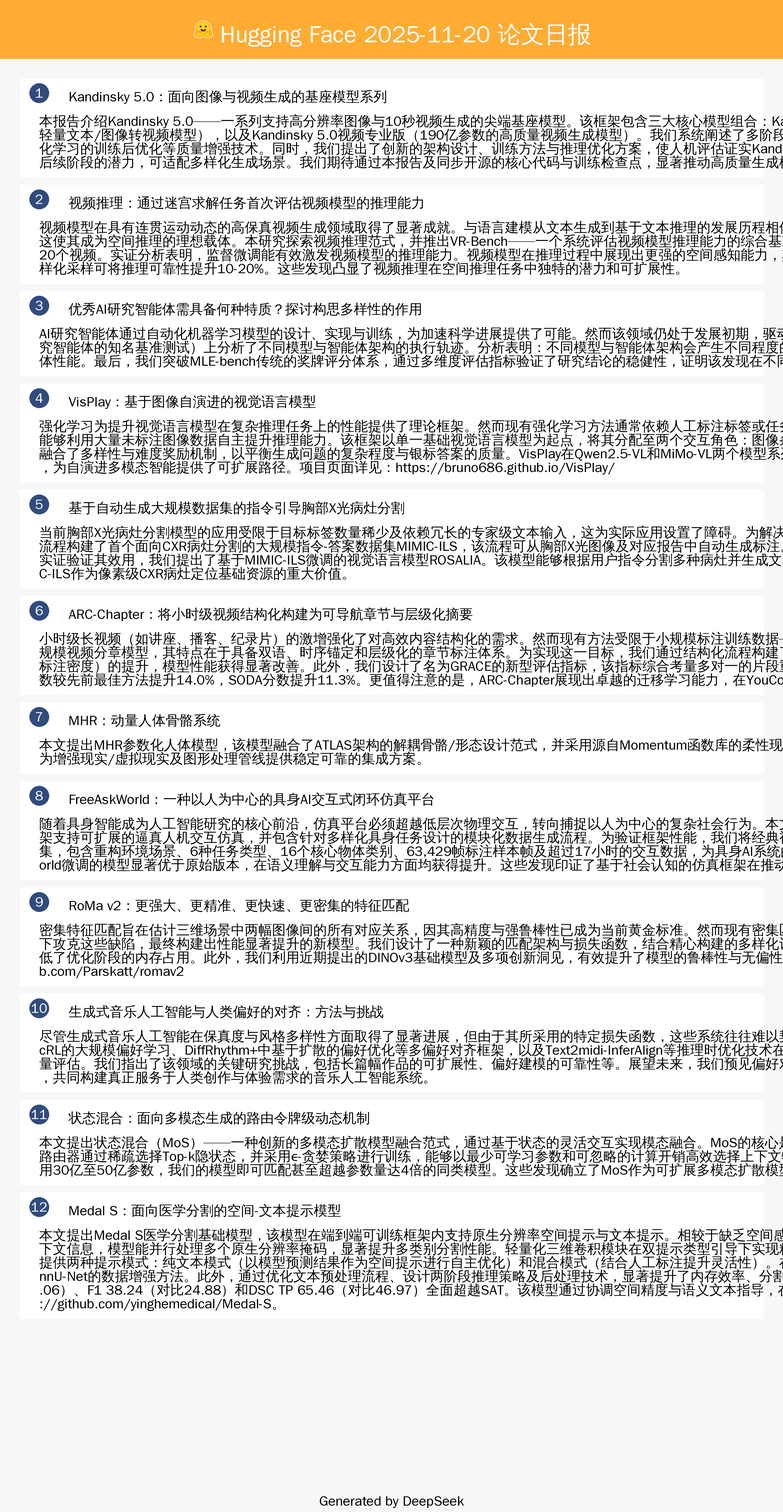
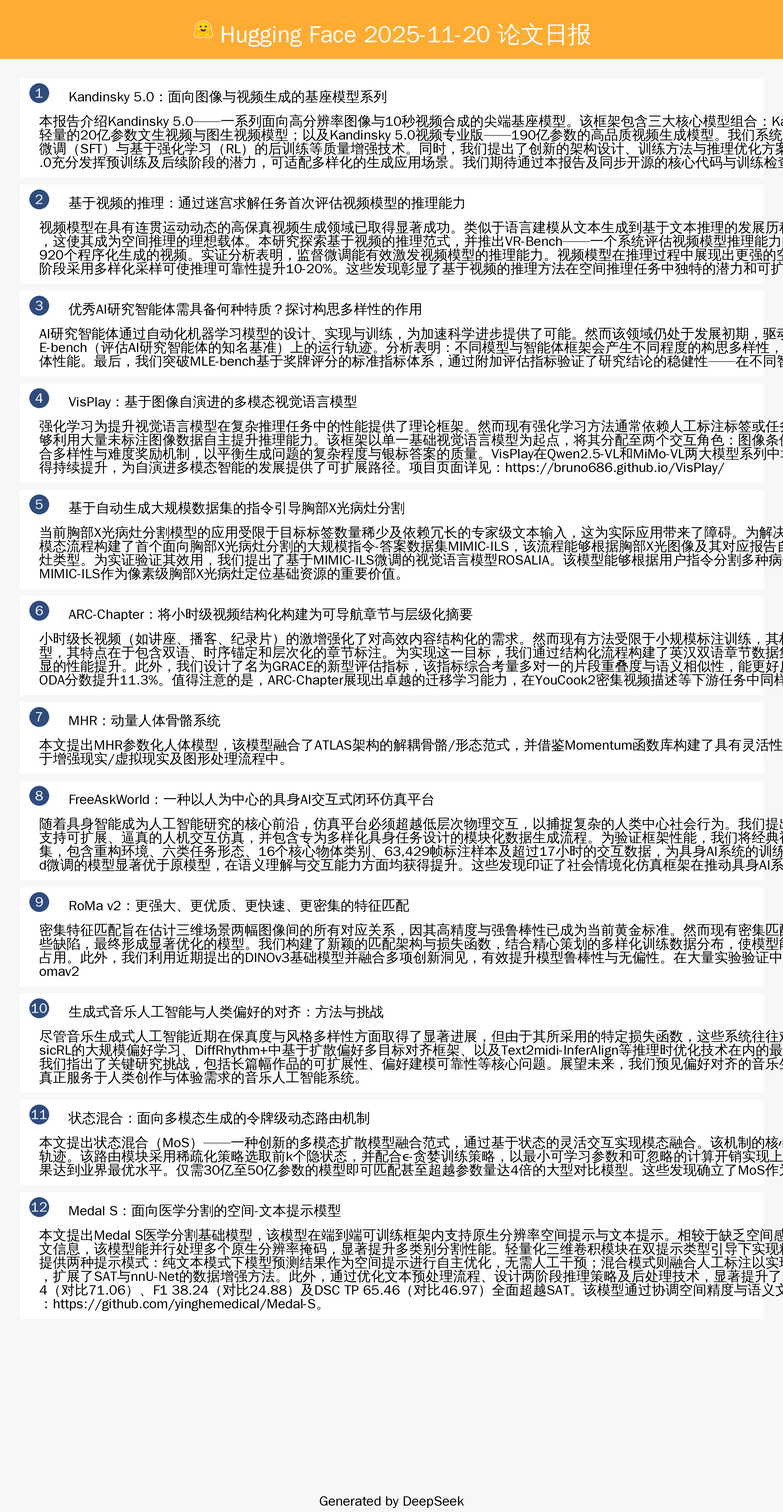
Update daily paper report for 2025-11-20

diff --git a/newsletters/2025-11-20_daily_paper.html b/newsletters/2025-11-20_daily_paper.html
@@ -154,73 +154,73 @@
 <h3>1. Kandinsky 5.0：面向图像与视频生成的基座模型系列</h3>
 <p><strong>原文标题：</strong> Kandinsky 5.0: A Family of Foundation Models for Image and Video Generation</p>
 <p><strong>摘要：</strong>
-本报告介绍Kandinsky 5.0——一系列支持高分辨率图像与10秒视频生成的尖端基座模型。该框架包含三大核心模型组合：Kandinsky 5.0图像轻量版（60亿参数图像生成模型）、Kandinsky 5.0视频轻量版（20亿参数的快速轻量文本/图像转视频模型），以及Kandinsky 5.0视频专业版（190亿参数的高质量视频生成模型）。我们系统阐述了多阶段训练流程中的数据治理生命周期（涵盖采集、处理、筛选与聚类），该流程包含大规模预训练阶段，并融合了自监督微调与基于强化学习的训练后优化等质量增强技术。同时，我们提出了创新的架构设计、训练方法与推理优化方案，使人机评估证实Kandinsky 5.0能在各类任务中实现高速生成与顶尖性能。作为开源可用的规模化生成框架，Kandinsky 5.0充分发挥预训练及后续阶段的潜力，可适配多样化生成场景。我们期待通过本报告及同步开源的核心代码与训练检查点，显著推动高质量生成模型在科研领域的发展与普及。</p>
+本报告介绍Kandinsky 5.0——一系列面向高分辨率图像与10秒视频合成的尖端基座模型。该框架包含三大核心模型组合：Kandinsky 5.0图像轻量版——包含60亿参数的图像生成模型系列；Kandinsky 5.0视频轻量版——快速轻量的20亿参数文生视频与图生视频模型；以及Kandinsky 5.0视频专业版——190亿参数的高品质视频生成模型。我们系统阐述了多阶段训练流程中的数据治理生命周期（涵盖收集、处理、筛选与聚类），该流程包含大规模预训练阶段，并融合了自监督微调（SFT）与基于强化学习（RL）的后训练等质量增强技术。同时，我们提出了创新的架构设计、训练方法与推理优化方案，使Kandinsky 5.0在人类评估中展现出高速生成能力与多任务的顶尖性能。作为大规模开源生成框架，Kandinsky 5.0充分发挥预训练及后续阶段的潜力，可适配多样化的生成应用场景。我们期待通过本报告及同步开源的核心代码与训练检查点，显著推动高质量生成模型在科研领域的发展与普及。</p>
 <p><strong>论文链接：</strong> <a href="https://huggingface.co/papers/2511.14993">HuggingFace</a> | <a href="https://arxiv.org/abs/2511.14993">arXiv</a></p>
 <hr />
-<h3>2. 视频推理：通过迷宫求解任务首次评估视频模型的推理能力</h3>
+<h3>2. 基于视频的推理：通过迷宫求解任务首次评估视频模型的推理能力</h3>
 <p><strong>原文标题：</strong> Reasoning via Video: The First Evaluation of Video Models' Reasoning Abilities through Maze-Solving Tasks</p>
 <p><strong>摘要：</strong>
-视频模型在具有连贯运动动态的高保真视频生成领域取得了显著成就。与语言建模从文本生成到基于文本推理的发展历程相似，视频模型的发展促使我们思考：视频模型能否通过视频生成进行推理？与离散文本语料相比，视频将推理锚定在明确的空间布局和时间连续性中，这使其成为空间推理的理想载体。本研究探索视频推理范式，并推出VR-Bench——一个系统评估视频模型推理能力的综合基准。该基准以迷宫求解任务为基础，此类任务本质上需要空间规划与多步推理能力，包含5种迷宫类型和多样视觉风格下程序化生成的7,920个视频。实证分析表明，监督微调能有效激发视频模型的推理能力。视频模型在推理过程中展现出更强的空间感知能力，其表现超越主流视觉语言模型，并在多样化场景、任务及复杂度层级中均具有良好的泛化性能。我们进一步发现测试时扩展效应，即推理过程中的多样化采样可将推理可靠性提升10-20%。这些发现凸显了视频推理在空间推理任务中独特的潜力和可扩展性。</p>
+视频模型在具有连贯运动动态的高保真视频生成领域已取得显著成功。类似于语言建模从文本生成到基于文本推理的发展历程，视频模型的进步促使我们思考：视频模型能否通过视频生成进行推理？与离散的文本语料相比，视频将推理锚定在明确的空间布局和时间连续性中，这使其成为空间推理的理想载体。本研究探索基于视频的推理范式，并推出VR-Bench——一个系统评估视频模型推理能力的综合基准。该基准以迷宫求解任务为基础，此类任务本质要求空间规划与多步推理能力，涵盖5种迷宫类型和多样化视觉风格，共包含7,920个程序化生成的视频。实证分析表明，监督微调能有效激发视频模型的推理能力。视频模型在推理过程中展现出更强的空间感知能力，其表现超越主流视觉语言模型，并在多样化场景、任务及复杂度层级中均具有良好的泛化性能。我们还发现测试时规模效应——推理阶段采用多样化采样可使推理可靠性提升10-20%。这些发现彰显了基于视频的推理方法在空间推理任务中独特的潜力和可扩展性。</p>
 <p><strong>论文链接：</strong> <a href="https://huggingface.co/papers/2511.15065">HuggingFace</a> | <a href="https://arxiv.org/abs/2511.15065">arXiv</a></p>
 <hr />
 <h3>3. 优秀AI研究智能体需具备何种特质？探讨构思多样性的作用</h3>
 <p><strong>原文标题：</strong> What Does It Take to Be a Good AI Research Agent? Studying the Role of Ideation Diversity</p>
 <p><strong>摘要：</strong>
-AI研究智能体通过自动化机器学习模型的设计、实现与训练，为加速科学进展提供了可能。然而该领域仍处于发展初期，驱动智能体轨迹成败的关键因素尚未被完全理解。本研究探讨了构思多样性对智能体表现的影响机制。首先，我们在MLE-bench（评估AI研究智能体的知名基准测试）上分析了不同模型与智能体架构的执行轨迹。分析表明：不同模型与智能体架构会产生不同程度的构思多样性，且表现更优的智能体往往展现出更高的构思多样性。进而通过控制构思多样性程度的实验，我们证实提高构思多样性能够显著增强智能体性能。最后，我们突破MLE-bench传统的奖牌评分体系，通过多维度评估指标验证了研究结论的稳健性，证明该发现在不同智能体性能度量标准下均成立。</p>
+AI研究智能体通过自动化机器学习模型的设计、实现与训练，为加速科学进步提供了可能。然而该领域仍处于发展初期，驱动智能体轨迹成败的关键因素尚未被完全理解。本文研究了构思多样性在智能体性能中发挥的作用。首先，我们分析了不同模型与智能体框架在MLE-bench（评估AI研究智能体的知名基准）上的运行轨迹。分析表明：不同模型与智能体框架会产生不同程度的构思多样性，且性能越优异的智能体往往展现出更高的构思多样性。进而，我们通过控制实验调节构思多样性程度，证明提高构思多样性可显著增强智能体性能。最后，我们突破MLE-bench基于奖牌评分的标准指标体系，通过附加评估指标验证了研究结论的稳健性——在不同智能体性能度量标准下，我们的发现依然成立。</p>
 <p><strong>论文链接：</strong> <a href="https://huggingface.co/papers/2511.15593">HuggingFace</a> | <a href="https://arxiv.org/abs/2511.15593">arXiv</a></p>
 <hr />
-<h3>4. VisPlay：基于图像自演进的视觉语言模型</h3>
+<h3>4. VisPlay：基于图像自演进的多模态视觉语言模型</h3>
 <p><strong>原文标题：</strong> VisPlay: Self-Evolving Vision-Language Models from Images</p>
 <p><strong>摘要：</strong>
-强化学习为提升视觉语言模型在复杂推理任务上的性能提供了理论框架。然而现有强化学习方法通常依赖人工标注标签或任务特定启发式规则来定义可验证奖励，这两种方式均成本高昂且难以扩展。我们提出VisPlay——一种自演进的强化学习框架，使视觉语言模型能够利用大量未标注图像数据自主提升推理能力。该框架以单一基础视觉语言模型为起点，将其分配至两个交互角色：图像条件提问器负责构建具有挑战性但可回答的视觉问题，多模态推理器则生成银标答案。通过群体相对策略优化算法对这两个角色进行联合训练，该算法融合了多样性与难度奖励机制，以平衡生成问题的复杂程度与银标答案的质量。VisPlay在Qwen2.5-VL和MiMo-VL两个模型系列中均展现出卓越的扩展效能，在MM-Vet和MMMU等八项基准测试中持续提升视觉推理、组合泛化及幻觉抑制能力，为自演进多模态智能提供了可扩展路径。项目页面详见：https://bruno686.github.io/VisPlay/</p>
+强化学习为提升视觉语言模型在复杂推理任务中的性能提供了理论框架。然而现有强化学习方法通常依赖人工标注标签或任务特定启发式规则来定义可验证奖励，这两种方式均成本高昂且难以扩展。我们提出VisPlay——一种自演进强化学习框架，使视觉语言模型能够利用大量未标注图像数据自主提升推理能力。该框架以单一基础视觉语言模型为起点，将其分配至两个交互角色：图像条件提问器负责构建具有挑战性但可回答的视觉问题，多模态推理器则生成银标答案。通过群体相对策略优化算法对这两个角色进行联合训练，该算法融合多样性与难度奖励机制，以平衡生成问题的复杂程度与银标答案的质量。VisPlay在Qwen2.5-VL和MiMo-VL两大模型系列中均展现出良好的扩展性。在MM-Vet和MMMU等八个基准测试中，该框架在视觉推理、组合泛化及幻觉抑制方面均取得持续提升，为自演进多模态智能的发展提供了可扩展路径。项目页面详见：https://bruno686.github.io/VisPlay/</p>
 <p><strong>论文链接：</strong> <a href="https://huggingface.co/papers/2511.15661">HuggingFace</a> | <a href="https://arxiv.org/abs/2511.15661">arXiv</a></p>
 <hr />
 <h3>5. 基于自动生成大规模数据集的指令引导胸部X光病灶分割</h3>
 <p><strong>原文标题：</strong> Instruction-Guided Lesion Segmentation for Chest X-rays with Automatically Generated Large-Scale Dataset</p>
 <p><strong>摘要：</strong>
-当前胸部X光病灶分割模型的应用受限于目标标签数量稀少及依赖冗长的专家级文本输入，这为实际应用设置了障碍。为解决这些局限性，我们提出了一种新范式：指令引导病灶分割，该范式能够基于简洁的用户指令分割多种病灶类型。在此范式下，我们通过全自动多模态流程构建了首个面向CXR病灶分割的大规模指令-答案数据集MIMIC-ILS，该流程可从胸部X光图像及对应报告中自动生成标注。MIMIC-ILS包含源自19.2万张图像和9.1万个独立分割掩码的110万条指令-答案对，涵盖七种主要病灶类型。为实证验证其效用，我们提出了基于MIMIC-ILS微调的视觉语言模型ROSALIA。该模型能够根据用户指令分割多种病灶并生成文本解释。在我们新提出的任务中，该模型实现了优异的病灶分割与文本描述精度，充分证明了我们流程的有效性，也彰显了MIMIC-ILS作为像素级CXR病灶定位基础资源的重大价值。</p>
+当前胸部X光病灶分割模型的应用受限于目标标签数量稀少及依赖冗长的专家级文本输入，这为实际应用带来了障碍。为解决这些局限性，我们提出了一种新范式：指令引导病灶分割，该范式旨在基于简单易用的用户指令分割多种病灶类型。在此范式下，我们通过全自动多模态流程构建了首个面向胸部X光病灶分割的大规模指令-答案数据集MIMIC-ILS，该流程能够根据胸部X光图像及其对应报告自动生成标注。MIMIC-ILS包含源自19.2万张图像和9.1万个独立分割掩码的110万条指令-答案对，涵盖七种主要病灶类型。为实证验证其效用，我们提出了基于MIMIC-ILS微调的视觉语言模型ROSALIA。该模型能够根据用户指令分割多种病灶并提供文本解释。在我们新提出的任务中，该模型实现了较高的分割精度与文本描述准确性，充分证明了我们流程的有效性，以及MIMIC-ILS作为像素级胸部X光病灶定位基础资源的重要价值。</p>
 <p><strong>论文链接：</strong> <a href="https://huggingface.co/papers/2511.15186">HuggingFace</a> | <a href="https://arxiv.org/abs/2511.15186">arXiv</a></p>
 <hr />
 <h3>6. ARC-Chapter：将小时级视频结构化构建为可导航章节与层级化摘要</h3>
 <p><strong>原文标题：</strong> ARC-Chapter: Structuring Hour-Long Videos into Navigable Chapters and Hierarchical Summaries</p>
 <p><strong>摘要：</strong>
-小时级长视频（如讲座、播客、纪录片）的激增强化了对高效内容结构化的需求。然而现有方法受限于小规模标注训练数据——其标注通常简短粗糙，制约了模型对长视频中细微内容转换的泛化能力。我们提出ARC-Chapter，首个基于百万级长视频章节训练的大规模视频分章模型，其特点在于具备双语、时序锚定和层级化的章节标注体系。为实现这一目标，我们通过结构化流程构建了英汉双语章节数据集，将语音转录文本、场景文字和视觉描述统一整合为从简短标题到详细摘要的多层级标注。实验证明，随着数据规模（数据量和标注密度）的提升，模型性能获得显著改善。此外，我们设计了名为GRACE的新型评估指标，该指标综合考量多对一的片段重叠度与语义相似性，能更准确反映实际分章任务的灵活性要求。大量实验表明，ARC-Chapter以显著优势创下最新性能记录，F1分数较先前最佳方法提升14.0%，SODA分数提升11.3%。更值得注意的是，ARC-Chapter展现出卓越的迁移学习能力，在YouCook2密集视频描述等下游任务中同样提升了现有最佳性能。</p>
+小时级长视频（如讲座、播客、纪录片）的激增强化了对高效内容结构化的需求。然而现有方法受限于小规模标注训练，其标注通常简短粗糙，难以泛化至长视频中的细微内容转换。我们提出ARC-Chapter——首个基于百万级长视频章节训练的大规模视频分章模型，其特点在于包含双语、时序锚定和层次化的章节标注。为实现这一目标，我们通过结构化流程构建了英汉双语章节数据集，将语音转录文本、场景文字和视觉描述统一整合为从简短标题到详细摘要的多层级标注。我们通过数据规模（数据量与标注强度）的扩展证明了明显的性能提升。此外，我们设计了名为GRACE的新型评估指标，该指标综合考量多对一的片段重叠度与语义相似性，能更好反映实际分章任务的灵活性。大量实验表明，ARC-Chapter以显著优势创下新性能纪录，F1分数较先前最佳方法提升14.0%，SODA分数提升11.3%。值得注意的是，ARC-Chapter展现出卓越的迁移学习能力，在YouCook2密集视频描述等下游任务中同样提升了现有最佳性能。</p>
 <p><strong>论文链接：</strong> <a href="https://huggingface.co/papers/2511.14349">HuggingFace</a> | <a href="https://arxiv.org/abs/2511.14349">arXiv</a></p>
 <hr />
 <h3>7. MHR：动量人体骨骼系统</h3>
 <p><strong>原文标题：</strong> MHR: Momentum Human Rig</p>
 <p><strong>摘要：</strong>
-本文提出MHR参数化人体模型，该模型融合了ATLAS架构的解耦骨骼/形态设计范式，并采用源自Momentum函数库的柔性现代骨骼绑定与姿态校正系统。我们的模型能够生成具有表现力且符合解剖学原理的人体动画，支持非线性姿态校正功能，其设计目标是为增强现实/虚拟现实及图形处理管线提供稳定可靠的集成方案。</p>
+本文提出MHR参数化人体模型，该模型融合了ATLAS架构的解耦骨骼/形态范式，并借鉴Momentum函数库构建了具有灵活性的现代骨骼绑定与姿态校正系统。该模型能够生成表现力丰富且符合解剖学原理的人体动画，支持非线性姿态校正，其设计可稳健集成于增强现实/虚拟现实及图形处理流程中。</p>
 <p><strong>论文链接：</strong> <a href="https://huggingface.co/papers/2511.15586">HuggingFace</a> | <a href="https://arxiv.org/abs/2511.15586">arXiv</a></p>
 <hr />
 <h3>8. FreeAskWorld：一种以人为中心的具身AI交互式闭环仿真平台</h3>
 <p><strong>原文标题：</strong> FreeAskWorld: An Interactive and Closed-Loop Simulator for Human-Centric Embodied AI</p>
 <p><strong>摘要：</strong>
-随着具身智能成为人工智能研究的核心前沿，仿真平台必须超越低层次物理交互，转向捕捉以人为中心的复杂社会行为。本文提出FreeAskWorld——一个融合大语言模型进行高层行为规划与语义基础交互的仿真框架，其设计基于意图理论与社会认知理论。该框架支持可扩展的逼真人机交互仿真，并包含针对多样化具身任务设计的模块化数据生成流程。为验证框架性能，我们将经典视觉语言导航任务扩展为富含交互的路径问询场景，使智能体能够主动寻求并解析导航指引。我们公开推出FreeAskWorld大规模基准数据集，包含重构环境场景、6种任务类型、16个核心物体类别、63,429帧标注样本帧及超过17小时的交互数据，为具身AI系统的训练与评估提供支持。通过对视觉语言导航模型与人类参与者进行开环与闭环设置的基准测试，实验结果表明：基于FreeAskWorld微调的模型显著优于原始版本，在语义理解与交互能力方面均获得提升。这些发现印证了基于社会认知的仿真框架在推动具身AI系统实现高级规划与自然人机交互方面的有效性。特别需要指出的是，本研究证实交互本身可作为一种附加的信息模态。</p>
+随着具身智能成为人工智能研究的核心前沿，仿真平台必须超越低层次物理交互，以捕捉复杂的人类中心社会行为。我们提出FreeAskWorld——一个融合大语言模型进行高层次行为规划与语义接地交互的仿真框架，其设计基于意图理论与社会认知理论。该框架支持可扩展、逼真的人机交互仿真，并包含专为多样化具身任务设计的模块化数据生成流程。为验证框架性能，我们将经典视觉语言导航任务扩展为交互增强的方位问询场景，使智能体能够主动寻求并解析导航指引。我们公开发布FreeAskWorld大规模基准数据集，包含重构环境、六类任务形态、16个核心物体类别、63,429帧标注样本及超过17小时的交互数据，为具身AI系统的训练与评估提供支持。通过对视觉语言导航模型和人类参与者进行开环与闭环设置的基准测试，实验结果表明：基于FreeAskWorld微调的模型显著优于原模型，在语义理解与交互能力方面均获得提升。这些发现印证了社会情境化仿真框架在推动具身AI系统实现高级规划与自然人机交互方面的有效性。特别需要指出的是，本研究揭示了交互本身可作为独立的信息模态这一重要特性。</p>
 <p><strong>论文链接：</strong> <a href="https://huggingface.co/papers/2511.13524">HuggingFace</a> | <a href="https://arxiv.org/abs/2511.13524">arXiv</a></p>
 <hr />
-<h3>9. RoMa v2：更强大、更精准、更快速、更密集的特征匹配</h3>
+<h3>9. RoMa v2：更强大、更优质、更快速、更密集的特征匹配</h3>
 <p><strong>原文标题：</strong> RoMa v2: Harder Better Faster Denser Feature Matching</p>
 <p><strong>摘要：</strong>
-密集特征匹配旨在估计三维场景中两幅图像间的所有对应关系，因其高精度与强鲁棒性已成为当前黄金标准。然而现有密集匹配方法在诸多复杂现实场景中仍存在匹配失败或性能不佳的问题，且高精度模型往往速度缓慢，限制了实际应用。本文通过一系列系统性改进多管齐下攻克这些缺陷，最终构建出性能显著提升的新模型。我们设计了一种新颖的匹配架构与损失函数，结合精心构建的多样化训练数据分布，使模型能够应对多种复杂匹配任务。通过解耦的“先匹配后优化”两阶段流程，我们实现了训练加速，并借助定制CUDA内核显著降低了优化阶段的内存占用。此外，我们利用近期提出的DINOv3基础模型及多项创新洞见，有效提升了模型的鲁棒性与无偏性。在大量实验验证中，本研究所提出的新型匹配器确立了最新技术标杆，其精度显著超越现有方法。代码已发布于https://github.com/Parskatt/romav2</p>
+密集特征匹配旨在估计三维场景两幅图像间的所有对应关系，因其高精度与强鲁棒性已成为当前黄金标准。然而现有密集匹配器在诸多复杂现实场景中仍存在失效或性能不佳的问题，且高精度模型往往速度迟缓，限制了实际应用。本文通过一系列系统性改进多管齐下攻克这些缺陷，最终形成显著优化的模型。我们构建了新颖的匹配架构与损失函数，结合精心策划的多样化训练数据分布，使模型能够解决众多复杂匹配任务。通过解耦的“先匹配后优化”两阶段流程，我们进一步加速训练过程，同时借助定制CUDA内核显著降低优化阶段内存占用。此外，我们利用近期提出的DINOv3基础模型并融合多项创新洞见，有效提升模型鲁棒性与无偏性。在大量实验验证中，新型匹配器创造了最新技术标杆，其精度显著超越前代模型。代码已发布于https://github.com/Parskatt/romav2</p>
 <p><strong>论文链接：</strong> <a href="https://huggingface.co/papers/2511.15706">HuggingFace</a> | <a href="https://arxiv.org/abs/2511.15706">arXiv</a></p>
 <hr />
 <h3>10. 生成式音乐人工智能与人类偏好的对齐：方法与挑战</h3>
 <p><strong>原文标题：</strong> Aligning Generative Music AI with Human Preferences: Methods and Challenges</p>
 <p><strong>摘要：</strong>
-尽管生成式音乐人工智能在保真度与风格多样性方面取得了显著进展，但由于其所采用的特定损失函数，这些系统往往难以契合人类细腻的审美偏好。本文主张将偏好对齐技术系统化应用于音乐生成领域，以弥合计算优化与人类音乐审美之间的根本差距。基于包括MusicRL的大规模偏好学习、DiffRhythm+中基于扩散的偏好优化等多偏好对齐框架，以及Text2midi-InferAlign等推理时优化技术在内的最新突破，我们深入探讨了这些技术如何应对音乐领域特有的挑战：时序连贯性、和声一致性及主观质量评估。我们指出了该领域的关键研究挑战，包括长篇幅作品的可扩展性、偏好建模的可靠性等。展望未来，我们预见偏好对齐的音乐生成技术将在交互式作曲工具和个性化音乐服务中催生变革性应用。本研究呼吁持续开展跨学科合作，结合机器学习与音乐理论的前沿进展，共同构建真正服务于人类创作与体验需求的音乐人工智能系统。</p>
+尽管音乐生成式人工智能近期在保真度与风格多样性方面取得了显著进展，但由于其所采用的特定损失函数，这些系统往往难以契合人类细腻的审美偏好。本文主张将偏好对齐技术系统化应用于音乐生成领域，以弥合计算优化与人类音乐审美之间的根本鸿沟。基于包括MusicRL的大规模偏好学习、DiffRhythm+中基于扩散偏好多目标对齐框架、以及Text2midi-InferAlign等推理时优化技术在内的最新突破，我们深入探讨这些技术如何应对音乐特有的挑战：时序连贯性、和声一致性以及主观质量评估。我们指出了关键研究挑战，包括长篇幅作品的可扩展性、偏好建模可靠性等核心问题。展望未来，我们预见偏好对齐的音乐生成技术将在交互式作曲工具和个性化音乐服务中催生变革性应用。本研究呼吁持续开展跨学科合作，结合机器学习与音乐理论的前沿进展，共同构建真正服务于人类创作与体验需求的音乐人工智能系统。</p>
 <p><strong>论文链接：</strong> <a href="https://huggingface.co/papers/2511.15038">HuggingFace</a> | <a href="https://arxiv.org/abs/2511.15038">arXiv</a></p>
 <hr />
-<h3>11. 状态混合：面向多模态生成的路由令牌级动态机制</h3>
+<h3>11. 状态混合：面向多模态生成的令牌级动态路由机制</h3>
 <p><strong>原文标题：</strong> Mixture of States: Routing Token-Level Dynamics for Multimodal Generation</p>
 <p><strong>摘要：</strong>
-本文提出状态混合（MoS）——一种创新的多模态扩散模型融合范式，通过基于状态的灵活交互实现模态融合。MoS的核心是可学习的令牌级路由器，该路由器在去噪时间步长和输入依赖条件下建立多模态隐状态间的交互机制，精确地将令牌级特征与扩散轨迹对齐。该路由器通过稀疏选择Top-k隐状态，并采用ε-贪婪策略进行训练，能够以最少可学习参数和可忽略的计算开销高效选择上下文特征。我们通过文本到图像生成（MoS-Image）和编辑（MoS-Editing）任务验证设计，取得了最先进的性能成果。仅使用30亿至50亿参数，我们的模型即可匹配甚至超越参数量达4倍的同类模型。这些发现确立了MoS作为可扩展多模态扩散模型的灵活且计算高效的范式。</p>
+本文提出状态混合（MoS）——一种创新的多模态扩散模型融合范式，通过基于状态的灵活交互实现模态融合。该机制的核心在于可学习的令牌级路由模块，该模块能够根据去噪时间步长与输入内容，在多模态隐状态间建立动态交互关系，从而精确对齐令牌级特征与扩散轨迹。该路由模块采用稀疏化策略选取前k个隐状态，并配合ε-贪婪训练策略，以最小可学习参数和可忽略的计算开销实现上下文特征的高效选择。我们通过文本到图像生成（MoS-Image）与编辑任务（MoS-Editing）验证了该设计的有效性，相关成果达到业界最优水平。仅需30亿至50亿参数的模型即可匹配甚至超越参数量达4倍的大型对比模型。这些发现确立了MoS作为可扩展多模态扩散模型的灵活高效计算范式。</p>
 <p><strong>论文链接：</strong> <a href="https://huggingface.co/papers/2511.12207">HuggingFace</a> | <a href="https://arxiv.org/abs/2511.12207">arXiv</a></p>
 <hr />
 <h3>12. Medal S：面向医学分割的空间-文本提示模型</h3>
 <p><strong>原文标题：</strong> Medal S: Spatio-Textual Prompt Model for Medical Segmentation</p>
 <p><strong>摘要：</strong>
-本文提出Medal S医学分割基础模型，该模型在端到端可训练框架内支持原生分辨率空间提示与文本提示。相较于缺乏空间感知的纯文本方法，Medal S实现了三维体积提示与文本嵌入的通道级对齐，有效缓解分辨率失配导致的定位偏差。通过保留完整三维上下文信息，模型能并行处理多个原生分辨率掩码，显著提升多类别分割性能。轻量化三维卷积模块在双提示类型引导下实现精确体素空间优化，支持BiomedSegFM数据集中CT、MRI、PET、超声及显微影像等5种模态的243个分割类别。Medal S提供两种提示模式：纯文本模式（以模型预测结果作为空间提示进行自主优化）和混合模式（结合人工标注提升灵活性）。在24类分割任务中，并行空间提示较顺序提示减少90%以上推理时间。针对目标-图像块比例失衡问题，我们提出动态重采样技术，扩展SAT与nnU-Net的数据增强方法。此外，通过优化文本预处理流程、设计两阶段推理策略及后处理技术，显著提升了内存效率、分割精度与推理速度。在验证集五模态平均指标中，Medal S以DSC 75.44（对比69.83）、NSD 77.34（对比71.06）、F1 38.24（对比24.88）和DSC TP 65.46（对比46.97）全面超越SAT。该模型通过协调空间精度与语义文本指导，在基于顺序提示的多类别医学分割任务中展现出卓越的效能与准确性。Medal S代码已开源：https://github.com/yinghemedical/Medal-S。</p>
+本文提出Medal S医学分割基础模型，该模型在端到端可训练框架内支持原生分辨率空间提示与文本提示。相较于缺乏空间感知的纯文本方法，Medal S实现了体数据提示与文本嵌入的通道级对齐，有效缓解分辨率失配导致的定位偏差。通过保留完整三维上下文信息，该模型能并行处理多个原生分辨率掩码，显著提升多类别分割性能。轻量化三维卷积模块在双提示类型引导下实现精确体素空间优化，支持BiomedSegFM数据集中CT、MRI、PET、超声及显微影像等五种模态的243类分割任务。Medal S提供两种提示模式：纯文本模式下模型预测结果作为空间提示进行自主优化，无需人工干预；混合模式则融合人工标注以实现更高灵活性。在24类分割任务中，并行空间提示较顺序提示减少90%以上推理时间。针对目标-图像块比例失衡问题，我们提出动态重采样技术，扩展了SAT与nnU-Net的数据增强方法。此外，通过优化文本预处理流程、设计两阶段推理策略及后处理技术，显著提升了内存效率、精度与推理速度。在验证集五模态平均指标上，Medal S以DSC 75.44（对比69.83）、NSD 77.34（对比71.06）、F1 38.24（对比24.88）及DSC TP 65.46（对比46.97）全面超越SAT。该模型通过协调空间精度与语义文本指导，在多项医学分割任务中展现出较顺序提示方法更优异的效率与准确性。Medal S代码已开源：https://github.com/yinghemedical/Medal-S。</p>
 <p><strong>论文链接：</strong> <a href="https://huggingface.co/papers/2511.13001">HuggingFace</a> | <a href="https://arxiv.org/abs/2511.13001">arXiv</a></p>
 <hr />
 <h2>🔍 关键词云图</h2>

diff --git a/newsletters/2025-11-20_daily_paper.md b/newsletters/2025-11-20_daily_paper.md
@@ -13,7 +13,7 @@
 **原文标题：** Kandinsky 5.0: A Family of Foundation Models for Image and Video Generation
 
 **摘要：**
-本报告介绍Kandinsky 5.0——一系列支持高分辨率图像与10秒视频生成的尖端基座模型。该框架包含三大核心模型组合：Kandinsky 5.0图像轻量版（60亿参数图像生成模型）、Kandinsky 5.0视频轻量版（20亿参数的快速轻量文本/图像转视频模型），以及Kandinsky 5.0视频专业版（190亿参数的高质量视频生成模型）。我们系统阐述了多阶段训练流程中的数据治理生命周期（涵盖采集、处理、筛选与聚类），该流程包含大规模预训练阶段，并融合了自监督微调与基于强化学习的训练后优化等质量增强技术。同时，我们提出了创新的架构设计、训练方法与推理优化方案，使人机评估证实Kandinsky 5.0能在各类任务中实现高速生成与顶尖性能。作为开源可用的规模化生成框架，Kandinsky 5.0充分发挥预训练及后续阶段的潜力，可适配多样化生成场景。我们期待通过本报告及同步开源的核心代码与训练检查点，显著推动高质量生成模型在科研领域的发展与普及。
+本报告介绍Kandinsky 5.0——一系列面向高分辨率图像与10秒视频合成的尖端基座模型。该框架包含三大核心模型组合：Kandinsky 5.0图像轻量版——包含60亿参数的图像生成模型系列；Kandinsky 5.0视频轻量版——快速轻量的20亿参数文生视频与图生视频模型；以及Kandinsky 5.0视频专业版——190亿参数的高品质视频生成模型。我们系统阐述了多阶段训练流程中的数据治理生命周期（涵盖收集、处理、筛选与聚类），该流程包含大规模预训练阶段，并融合了自监督微调（SFT）与基于强化学习（RL）的后训练等质量增强技术。同时，我们提出了创新的架构设计、训练方法与推理优化方案，使Kandinsky 5.0在人类评估中展现出高速生成能力与多任务的顶尖性能。作为大规模开源生成框架，Kandinsky 5.0充分发挥预训练及后续阶段的潜力，可适配多样化的生成应用场景。我们期待通过本报告及同步开源的核心代码与训练检查点，显著推动高质量生成模型在科研领域的发展与普及。
 
 **论文链接：** [HuggingFace](https://huggingface.co/papers/2511.14993) | [arXiv](https://arxiv.org/abs/2511.14993)
 
@@ -21,12 +21,12 @@
 
 ---
 
-### 2. 视频推理：通过迷宫求解任务首次评估视频模型的推理能力
+### 2. 基于视频的推理：通过迷宫求解任务首次评估视频模型的推理能力
 
 **原文标题：** Reasoning via Video: The First Evaluation of Video Models' Reasoning Abilities through Maze-Solving Tasks
 
 **摘要：**
-视频模型在具有连贯运动动态的高保真视频生成领域取得了显著成就。与语言建模从文本生成到基于文本推理的发展历程相似，视频模型的发展促使我们思考：视频模型能否通过视频生成进行推理？与离散文本语料相比，视频将推理锚定在明确的空间布局和时间连续性中，这使其成为空间推理的理想载体。本研究探索视频推理范式，并推出VR-Bench——一个系统评估视频模型推理能力的综合基准。该基准以迷宫求解任务为基础，此类任务本质上需要空间规划与多步推理能力，包含5种迷宫类型和多样视觉风格下程序化生成的7,920个视频。实证分析表明，监督微调能有效激发视频模型的推理能力。视频模型在推理过程中展现出更强的空间感知能力，其表现超越主流视觉语言模型，并在多样化场景、任务及复杂度层级中均具有良好的泛化性能。我们进一步发现测试时扩展效应，即推理过程中的多样化采样可将推理可靠性提升10-20%。这些发现凸显了视频推理在空间推理任务中独特的潜力和可扩展性。
+视频模型在具有连贯运动动态的高保真视频生成领域已取得显著成功。类似于语言建模从文本生成到基于文本推理的发展历程，视频模型的进步促使我们思考：视频模型能否通过视频生成进行推理？与离散的文本语料相比，视频将推理锚定在明确的空间布局和时间连续性中，这使其成为空间推理的理想载体。本研究探索基于视频的推理范式，并推出VR-Bench——一个系统评估视频模型推理能力的综合基准。该基准以迷宫求解任务为基础，此类任务本质要求空间规划与多步推理能力，涵盖5种迷宫类型和多样化视觉风格，共包含7,920个程序化生成的视频。实证分析表明，监督微调能有效激发视频模型的推理能力。视频模型在推理过程中展现出更强的空间感知能力，其表现超越主流视觉语言模型，并在多样化场景、任务及复杂度层级中均具有良好的泛化性能。我们还发现测试时规模效应——推理阶段采用多样化采样可使推理可靠性提升10-20%。这些发现彰显了基于视频的推理方法在空间推理任务中独特的潜力和可扩展性。
 
 **论文链接：** [HuggingFace](https://huggingface.co/papers/2511.15065) | [arXiv](https://arxiv.org/abs/2511.15065)
 
@@ -39,7 +39,7 @@
 **原文标题：** What Does It Take to Be a Good AI Research Agent? Studying the Role of Ideation Diversity
 
 **摘要：**
-AI研究智能体通过自动化机器学习模型的设计、实现与训练，为加速科学进展提供了可能。然而该领域仍处于发展初期，驱动智能体轨迹成败的关键因素尚未被完全理解。本研究探讨了构思多样性对智能体表现的影响机制。首先，我们在MLE-bench（评估AI研究智能体的知名基准测试）上分析了不同模型与智能体架构的执行轨迹。分析表明：不同模型与智能体架构会产生不同程度的构思多样性，且表现更优的智能体往往展现出更高的构思多样性。进而通过控制构思多样性程度的实验，我们证实提高构思多样性能够显著增强智能体性能。最后，我们突破MLE-bench传统的奖牌评分体系，通过多维度评估指标验证了研究结论的稳健性，证明该发现在不同智能体性能度量标准下均成立。
+AI研究智能体通过自动化机器学习模型的设计、实现与训练，为加速科学进步提供了可能。然而该领域仍处于发展初期，驱动智能体轨迹成败的关键因素尚未被完全理解。本文研究了构思多样性在智能体性能中发挥的作用。首先，我们分析了不同模型与智能体框架在MLE-bench（评估AI研究智能体的知名基准）上的运行轨迹。分析表明：不同模型与智能体框架会产生不同程度的构思多样性，且性能越优异的智能体往往展现出更高的构思多样性。进而，我们通过控制实验调节构思多样性程度，证明提高构思多样性可显著增强智能体性能。最后，我们突破MLE-bench基于奖牌评分的标准指标体系，通过附加评估指标验证了研究结论的稳健性——在不同智能体性能度量标准下，我们的发现依然成立。
 
 **论文链接：** [HuggingFace](https://huggingface.co/papers/2511.15593) | [arXiv](https://arxiv.org/abs/2511.15593)
 
@@ -47,12 +47,12 @@ AI研究智能体通过自动化机器学习模型的设计、实现与训练，
 
 ---
 
-### 4. VisPlay：基于图像自演进的视觉语言模型
+### 4. VisPlay：基于图像自演进的多模态视觉语言模型
 
 **原文标题：** VisPlay: Self-Evolving Vision-Language Models from Images
 
 **摘要：**
-强化学习为提升视觉语言模型在复杂推理任务上的性能提供了理论框架。然而现有强化学习方法通常依赖人工标注标签或任务特定启发式规则来定义可验证奖励，这两种方式均成本高昂且难以扩展。我们提出VisPlay——一种自演进的强化学习框架，使视觉语言模型能够利用大量未标注图像数据自主提升推理能力。该框架以单一基础视觉语言模型为起点，将其分配至两个交互角色：图像条件提问器负责构建具有挑战性但可回答的视觉问题，多模态推理器则生成银标答案。通过群体相对策略优化算法对这两个角色进行联合训练，该算法融合了多样性与难度奖励机制，以平衡生成问题的复杂程度与银标答案的质量。VisPlay在Qwen2.5-VL和MiMo-VL两个模型系列中均展现出卓越的扩展效能，在MM-Vet和MMMU等八项基准测试中持续提升视觉推理、组合泛化及幻觉抑制能力，为自演进多模态智能提供了可扩展路径。项目页面详见：https://bruno686.github.io/VisPlay/
+强化学习为提升视觉语言模型在复杂推理任务中的性能提供了理论框架。然而现有强化学习方法通常依赖人工标注标签或任务特定启发式规则来定义可验证奖励，这两种方式均成本高昂且难以扩展。我们提出VisPlay——一种自演进强化学习框架，使视觉语言模型能够利用大量未标注图像数据自主提升推理能力。该框架以单一基础视觉语言模型为起点，将其分配至两个交互角色：图像条件提问器负责构建具有挑战性但可回答的视觉问题，多模态推理器则生成银标答案。通过群体相对策略优化算法对这两个角色进行联合训练，该算法融合多样性与难度奖励机制，以平衡生成问题的复杂程度与银标答案的质量。VisPlay在Qwen2.5-VL和MiMo-VL两大模型系列中均展现出良好的扩展性。在MM-Vet和MMMU等八个基准测试中，该框架在视觉推理、组合泛化及幻觉抑制方面均取得持续提升，为自演进多模态智能的发展提供了可扩展路径。项目页面详见：https://bruno686.github.io/VisPlay/
 
 **论文链接：** [HuggingFace](https://huggingface.co/papers/2511.15661) | [arXiv](https://arxiv.org/abs/2511.15661)
 
@@ -65,7 +65,7 @@ AI研究智能体通过自动化机器学习模型的设计、实现与训练，
 **原文标题：** Instruction-Guided Lesion Segmentation for Chest X-rays with Automatically Generated Large-Scale Dataset
 
 **摘要：**
-当前胸部X光病灶分割模型的应用受限于目标标签数量稀少及依赖冗长的专家级文本输入，这为实际应用设置了障碍。为解决这些局限性，我们提出了一种新范式：指令引导病灶分割，该范式能够基于简洁的用户指令分割多种病灶类型。在此范式下，我们通过全自动多模态流程构建了首个面向CXR病灶分割的大规模指令-答案数据集MIMIC-ILS，该流程可从胸部X光图像及对应报告中自动生成标注。MIMIC-ILS包含源自19.2万张图像和9.1万个独立分割掩码的110万条指令-答案对，涵盖七种主要病灶类型。为实证验证其效用，我们提出了基于MIMIC-ILS微调的视觉语言模型ROSALIA。该模型能够根据用户指令分割多种病灶并生成文本解释。在我们新提出的任务中，该模型实现了优异的病灶分割与文本描述精度，充分证明了我们流程的有效性，也彰显了MIMIC-ILS作为像素级CXR病灶定位基础资源的重大价值。
+当前胸部X光病灶分割模型的应用受限于目标标签数量稀少及依赖冗长的专家级文本输入，这为实际应用带来了障碍。为解决这些局限性，我们提出了一种新范式：指令引导病灶分割，该范式旨在基于简单易用的用户指令分割多种病灶类型。在此范式下，我们通过全自动多模态流程构建了首个面向胸部X光病灶分割的大规模指令-答案数据集MIMIC-ILS，该流程能够根据胸部X光图像及其对应报告自动生成标注。MIMIC-ILS包含源自19.2万张图像和9.1万个独立分割掩码的110万条指令-答案对，涵盖七种主要病灶类型。为实证验证其效用，我们提出了基于MIMIC-ILS微调的视觉语言模型ROSALIA。该模型能够根据用户指令分割多种病灶并提供文本解释。在我们新提出的任务中，该模型实现了较高的分割精度与文本描述准确性，充分证明了我们流程的有效性，以及MIMIC-ILS作为像素级胸部X光病灶定位基础资源的重要价值。
 
 **论文链接：** [HuggingFace](https://huggingface.co/papers/2511.15186) | [arXiv](https://arxiv.org/abs/2511.15186)
 
@@ -78,7 +78,7 @@ AI研究智能体通过自动化机器学习模型的设计、实现与训练，
 **原文标题：** ARC-Chapter: Structuring Hour-Long Videos into Navigable Chapters and Hierarchical Summaries
 
 **摘要：**
-小时级长视频（如讲座、播客、纪录片）的激增强化了对高效内容结构化的需求。然而现有方法受限于小规模标注训练数据——其标注通常简短粗糙，制约了模型对长视频中细微内容转换的泛化能力。我们提出ARC-Chapter，首个基于百万级长视频章节训练的大规模视频分章模型，其特点在于具备双语、时序锚定和层级化的章节标注体系。为实现这一目标，我们通过结构化流程构建了英汉双语章节数据集，将语音转录文本、场景文字和视觉描述统一整合为从简短标题到详细摘要的多层级标注。实验证明，随着数据规模（数据量和标注密度）的提升，模型性能获得显著改善。此外，我们设计了名为GRACE的新型评估指标，该指标综合考量多对一的片段重叠度与语义相似性，能更准确反映实际分章任务的灵活性要求。大量实验表明，ARC-Chapter以显著优势创下最新性能记录，F1分数较先前最佳方法提升14.0%，SODA分数提升11.3%。更值得注意的是，ARC-Chapter展现出卓越的迁移学习能力，在YouCook2密集视频描述等下游任务中同样提升了现有最佳性能。
+小时级长视频（如讲座、播客、纪录片）的激增强化了对高效内容结构化的需求。然而现有方法受限于小规模标注训练，其标注通常简短粗糙，难以泛化至长视频中的细微内容转换。我们提出ARC-Chapter——首个基于百万级长视频章节训练的大规模视频分章模型，其特点在于包含双语、时序锚定和层次化的章节标注。为实现这一目标，我们通过结构化流程构建了英汉双语章节数据集，将语音转录文本、场景文字和视觉描述统一整合为从简短标题到详细摘要的多层级标注。我们通过数据规模（数据量与标注强度）的扩展证明了明显的性能提升。此外，我们设计了名为GRACE的新型评估指标，该指标综合考量多对一的片段重叠度与语义相似性，能更好反映实际分章任务的灵活性。大量实验表明，ARC-Chapter以显著优势创下新性能纪录，F1分数较先前最佳方法提升14.0%，SODA分数提升11.3%。值得注意的是，ARC-Chapter展现出卓越的迁移学习能力，在YouCook2密集视频描述等下游任务中同样提升了现有最佳性能。
 
 **论文链接：** [HuggingFace](https://huggingface.co/papers/2511.14349) | [arXiv](https://arxiv.org/abs/2511.14349)
 
@@ -91,7 +91,7 @@ AI研究智能体通过自动化机器学习模型的设计、实现与训练，
 **原文标题：** MHR: Momentum Human Rig
 
 **摘要：**
-本文提出MHR参数化人体模型，该模型融合了ATLAS架构的解耦骨骼/形态设计范式，并采用源自Momentum函数库的柔性现代骨骼绑定与姿态校正系统。我们的模型能够生成具有表现力且符合解剖学原理的人体动画，支持非线性姿态校正功能，其设计目标是为增强现实/虚拟现实及图形处理管线提供稳定可靠的集成方案。
+本文提出MHR参数化人体模型，该模型融合了ATLAS架构的解耦骨骼/形态范式，并借鉴Momentum函数库构建了具有灵活性的现代骨骼绑定与姿态校正系统。该模型能够生成表现力丰富且符合解剖学原理的人体动画，支持非线性姿态校正，其设计可稳健集成于增强现实/虚拟现实及图形处理流程中。
 
 **论文链接：** [HuggingFace](https://huggingface.co/papers/2511.15586) | [arXiv](https://arxiv.org/abs/2511.15586)
 
@@ -104,7 +104,7 @@ AI研究智能体通过自动化机器学习模型的设计、实现与训练，
 **原文标题：** FreeAskWorld: An Interactive and Closed-Loop Simulator for Human-Centric Embodied AI
 
 **摘要：**
-随着具身智能成为人工智能研究的核心前沿，仿真平台必须超越低层次物理交互，转向捕捉以人为中心的复杂社会行为。本文提出FreeAskWorld——一个融合大语言模型进行高层行为规划与语义基础交互的仿真框架，其设计基于意图理论与社会认知理论。该框架支持可扩展的逼真人机交互仿真，并包含针对多样化具身任务设计的模块化数据生成流程。为验证框架性能，我们将经典视觉语言导航任务扩展为富含交互的路径问询场景，使智能体能够主动寻求并解析导航指引。我们公开推出FreeAskWorld大规模基准数据集，包含重构环境场景、6种任务类型、16个核心物体类别、63,429帧标注样本帧及超过17小时的交互数据，为具身AI系统的训练与评估提供支持。通过对视觉语言导航模型与人类参与者进行开环与闭环设置的基准测试，实验结果表明：基于FreeAskWorld微调的模型显著优于原始版本，在语义理解与交互能力方面均获得提升。这些发现印证了基于社会认知的仿真框架在推动具身AI系统实现高级规划与自然人机交互方面的有效性。特别需要指出的是，本研究证实交互本身可作为一种附加的信息模态。
+随着具身智能成为人工智能研究的核心前沿，仿真平台必须超越低层次物理交互，以捕捉复杂的人类中心社会行为。我们提出FreeAskWorld——一个融合大语言模型进行高层次行为规划与语义接地交互的仿真框架，其设计基于意图理论与社会认知理论。该框架支持可扩展、逼真的人机交互仿真，并包含专为多样化具身任务设计的模块化数据生成流程。为验证框架性能，我们将经典视觉语言导航任务扩展为交互增强的方位问询场景，使智能体能够主动寻求并解析导航指引。我们公开发布FreeAskWorld大规模基准数据集，包含重构环境、六类任务形态、16个核心物体类别、63,429帧标注样本及超过17小时的交互数据，为具身AI系统的训练与评估提供支持。通过对视觉语言导航模型和人类参与者进行开环与闭环设置的基准测试，实验结果表明：基于FreeAskWorld微调的模型显著优于原模型，在语义理解与交互能力方面均获得提升。这些发现印证了社会情境化仿真框架在推动具身AI系统实现高级规划与自然人机交互方面的有效性。特别需要指出的是，本研究揭示了交互本身可作为独立的信息模态这一重要特性。
 
 **论文链接：** [HuggingFace](https://huggingface.co/papers/2511.13524) | [arXiv](https://arxiv.org/abs/2511.13524)
 
@@ -112,12 +112,12 @@ AI研究智能体通过自动化机器学习模型的设计、实现与训练，
 
 ---
 
-### 9. RoMa v2：更强大、更精准、更快速、更密集的特征匹配
+### 9. RoMa v2：更强大、更优质、更快速、更密集的特征匹配
 
 **原文标题：** RoMa v2: Harder Better Faster Denser Feature Matching
 
 **摘要：**
-密集特征匹配旨在估计三维场景中两幅图像间的所有对应关系，因其高精度与强鲁棒性已成为当前黄金标准。然而现有密集匹配方法在诸多复杂现实场景中仍存在匹配失败或性能不佳的问题，且高精度模型往往速度缓慢，限制了实际应用。本文通过一系列系统性改进多管齐下攻克这些缺陷，最终构建出性能显著提升的新模型。我们设计了一种新颖的匹配架构与损失函数，结合精心构建的多样化训练数据分布，使模型能够应对多种复杂匹配任务。通过解耦的“先匹配后优化”两阶段流程，我们实现了训练加速，并借助定制CUDA内核显著降低了优化阶段的内存占用。此外，我们利用近期提出的DINOv3基础模型及多项创新洞见，有效提升了模型的鲁棒性与无偏性。在大量实验验证中，本研究所提出的新型匹配器确立了最新技术标杆，其精度显著超越现有方法。代码已发布于https://github.com/Parskatt/romav2
+密集特征匹配旨在估计三维场景两幅图像间的所有对应关系，因其高精度与强鲁棒性已成为当前黄金标准。然而现有密集匹配器在诸多复杂现实场景中仍存在失效或性能不佳的问题，且高精度模型往往速度迟缓，限制了实际应用。本文通过一系列系统性改进多管齐下攻克这些缺陷，最终形成显著优化的模型。我们构建了新颖的匹配架构与损失函数，结合精心策划的多样化训练数据分布，使模型能够解决众多复杂匹配任务。通过解耦的“先匹配后优化”两阶段流程，我们进一步加速训练过程，同时借助定制CUDA内核显著降低优化阶段内存占用。此外，我们利用近期提出的DINOv3基础模型并融合多项创新洞见，有效提升模型鲁棒性与无偏性。在大量实验验证中，新型匹配器创造了最新技术标杆，其精度显著超越前代模型。代码已发布于https://github.com/Parskatt/romav2
 
 **论文链接：** [HuggingFace](https://huggingface.co/papers/2511.15706) | [arXiv](https://arxiv.org/abs/2511.15706)
 
@@ -130,7 +130,7 @@ AI研究智能体通过自动化机器学习模型的设计、实现与训练，
 **原文标题：** Aligning Generative Music AI with Human Preferences: Methods and Challenges
 
 **摘要：**
-尽管生成式音乐人工智能在保真度与风格多样性方面取得了显著进展，但由于其所采用的特定损失函数，这些系统往往难以契合人类细腻的审美偏好。本文主张将偏好对齐技术系统化应用于音乐生成领域，以弥合计算优化与人类音乐审美之间的根本差距。基于包括MusicRL的大规模偏好学习、DiffRhythm+中基于扩散的偏好优化等多偏好对齐框架，以及Text2midi-InferAlign等推理时优化技术在内的最新突破，我们深入探讨了这些技术如何应对音乐领域特有的挑战：时序连贯性、和声一致性及主观质量评估。我们指出了该领域的关键研究挑战，包括长篇幅作品的可扩展性、偏好建模的可靠性等。展望未来，我们预见偏好对齐的音乐生成技术将在交互式作曲工具和个性化音乐服务中催生变革性应用。本研究呼吁持续开展跨学科合作，结合机器学习与音乐理论的前沿进展，共同构建真正服务于人类创作与体验需求的音乐人工智能系统。
+尽管音乐生成式人工智能近期在保真度与风格多样性方面取得了显著进展，但由于其所采用的特定损失函数，这些系统往往难以契合人类细腻的审美偏好。本文主张将偏好对齐技术系统化应用于音乐生成领域，以弥合计算优化与人类音乐审美之间的根本鸿沟。基于包括MusicRL的大规模偏好学习、DiffRhythm+中基于扩散偏好多目标对齐框架、以及Text2midi-InferAlign等推理时优化技术在内的最新突破，我们深入探讨这些技术如何应对音乐特有的挑战：时序连贯性、和声一致性以及主观质量评估。我们指出了关键研究挑战，包括长篇幅作品的可扩展性、偏好建模可靠性等核心问题。展望未来，我们预见偏好对齐的音乐生成技术将在交互式作曲工具和个性化音乐服务中催生变革性应用。本研究呼吁持续开展跨学科合作，结合机器学习与音乐理论的前沿进展，共同构建真正服务于人类创作与体验需求的音乐人工智能系统。
 
 **论文链接：** [HuggingFace](https://huggingface.co/papers/2511.15038) | [arXiv](https://arxiv.org/abs/2511.15038)
 
@@ -138,12 +138,12 @@ AI研究智能体通过自动化机器学习模型的设计、实现与训练，
 
 ---
 
-### 11. 状态混合：面向多模态生成的路由令牌级动态机制
+### 11. 状态混合：面向多模态生成的令牌级动态路由机制
 
 **原文标题：** Mixture of States: Routing Token-Level Dynamics for Multimodal Generation
 
 **摘要：**
-本文提出状态混合（MoS）——一种创新的多模态扩散模型融合范式，通过基于状态的灵活交互实现模态融合。MoS的核心是可学习的令牌级路由器，该路由器在去噪时间步长和输入依赖条件下建立多模态隐状态间的交互机制，精确地将令牌级特征与扩散轨迹对齐。该路由器通过稀疏选择Top-k隐状态，并采用ε-贪婪策略进行训练，能够以最少可学习参数和可忽略的计算开销高效选择上下文特征。我们通过文本到图像生成（MoS-Image）和编辑（MoS-Editing）任务验证设计，取得了最先进的性能成果。仅使用30亿至50亿参数，我们的模型即可匹配甚至超越参数量达4倍的同类模型。这些发现确立了MoS作为可扩展多模态扩散模型的灵活且计算高效的范式。
+本文提出状态混合（MoS）——一种创新的多模态扩散模型融合范式，通过基于状态的灵活交互实现模态融合。该机制的核心在于可学习的令牌级路由模块，该模块能够根据去噪时间步长与输入内容，在多模态隐状态间建立动态交互关系，从而精确对齐令牌级特征与扩散轨迹。该路由模块采用稀疏化策略选取前k个隐状态，并配合ε-贪婪训练策略，以最小可学习参数和可忽略的计算开销实现上下文特征的高效选择。我们通过文本到图像生成（MoS-Image）与编辑任务（MoS-Editing）验证了该设计的有效性，相关成果达到业界最优水平。仅需30亿至50亿参数的模型即可匹配甚至超越参数量达4倍的大型对比模型。这些发现确立了MoS作为可扩展多模态扩散模型的灵活高效计算范式。
 
 **论文链接：** [HuggingFace](https://huggingface.co/papers/2511.12207) | [arXiv](https://arxiv.org/abs/2511.12207)
 
@@ -156,7 +156,7 @@ AI研究智能体通过自动化机器学习模型的设计、实现与训练，
 **原文标题：** Medal S: Spatio-Textual Prompt Model for Medical Segmentation
 
 **摘要：**
-本文提出Medal S医学分割基础模型，该模型在端到端可训练框架内支持原生分辨率空间提示与文本提示。相较于缺乏空间感知的纯文本方法，Medal S实现了三维体积提示与文本嵌入的通道级对齐，有效缓解分辨率失配导致的定位偏差。通过保留完整三维上下文信息，模型能并行处理多个原生分辨率掩码，显著提升多类别分割性能。轻量化三维卷积模块在双提示类型引导下实现精确体素空间优化，支持BiomedSegFM数据集中CT、MRI、PET、超声及显微影像等5种模态的243个分割类别。Medal S提供两种提示模式：纯文本模式（以模型预测结果作为空间提示进行自主优化）和混合模式（结合人工标注提升灵活性）。在24类分割任务中，并行空间提示较顺序提示减少90%以上推理时间。针对目标-图像块比例失衡问题，我们提出动态重采样技术，扩展SAT与nnU-Net的数据增强方法。此外，通过优化文本预处理流程、设计两阶段推理策略及后处理技术，显著提升了内存效率、分割精度与推理速度。在验证集五模态平均指标中，Medal S以DSC 75.44（对比69.83）、NSD 77.34（对比71.06）、F1 38.24（对比24.88）和DSC TP 65.46（对比46.97）全面超越SAT。该模型通过协调空间精度与语义文本指导，在基于顺序提示的多类别医学分割任务中展现出卓越的效能与准确性。Medal S代码已开源：https://github.com/yinghemedical/Medal-S。
+本文提出Medal S医学分割基础模型，该模型在端到端可训练框架内支持原生分辨率空间提示与文本提示。相较于缺乏空间感知的纯文本方法，Medal S实现了体数据提示与文本嵌入的通道级对齐，有效缓解分辨率失配导致的定位偏差。通过保留完整三维上下文信息，该模型能并行处理多个原生分辨率掩码，显著提升多类别分割性能。轻量化三维卷积模块在双提示类型引导下实现精确体素空间优化，支持BiomedSegFM数据集中CT、MRI、PET、超声及显微影像等五种模态的243类分割任务。Medal S提供两种提示模式：纯文本模式下模型预测结果作为空间提示进行自主优化，无需人工干预；混合模式则融合人工标注以实现更高灵活性。在24类分割任务中，并行空间提示较顺序提示减少90%以上推理时间。针对目标-图像块比例失衡问题，我们提出动态重采样技术，扩展了SAT与nnU-Net的数据增强方法。此外，通过优化文本预处理流程、设计两阶段推理策略及后处理技术，显著提升了内存效率、精度与推理速度。在验证集五模态平均指标上，Medal S以DSC 75.44（对比69.83）、NSD 77.34（对比71.06）、F1 38.24（对比24.88）及DSC TP 65.46（对比46.97）全面超越SAT。该模型通过协调空间精度与语义文本指导，在多项医学分割任务中展现出较顺序提示方法更优异的效率与准确性。Medal S代码已开源：https://github.com/yinghemedical/Medal-S。
 
 **论文链接：** [HuggingFace](https://huggingface.co/papers/2511.13001) | [arXiv](https://arxiv.org/abs/2511.13001)
 
